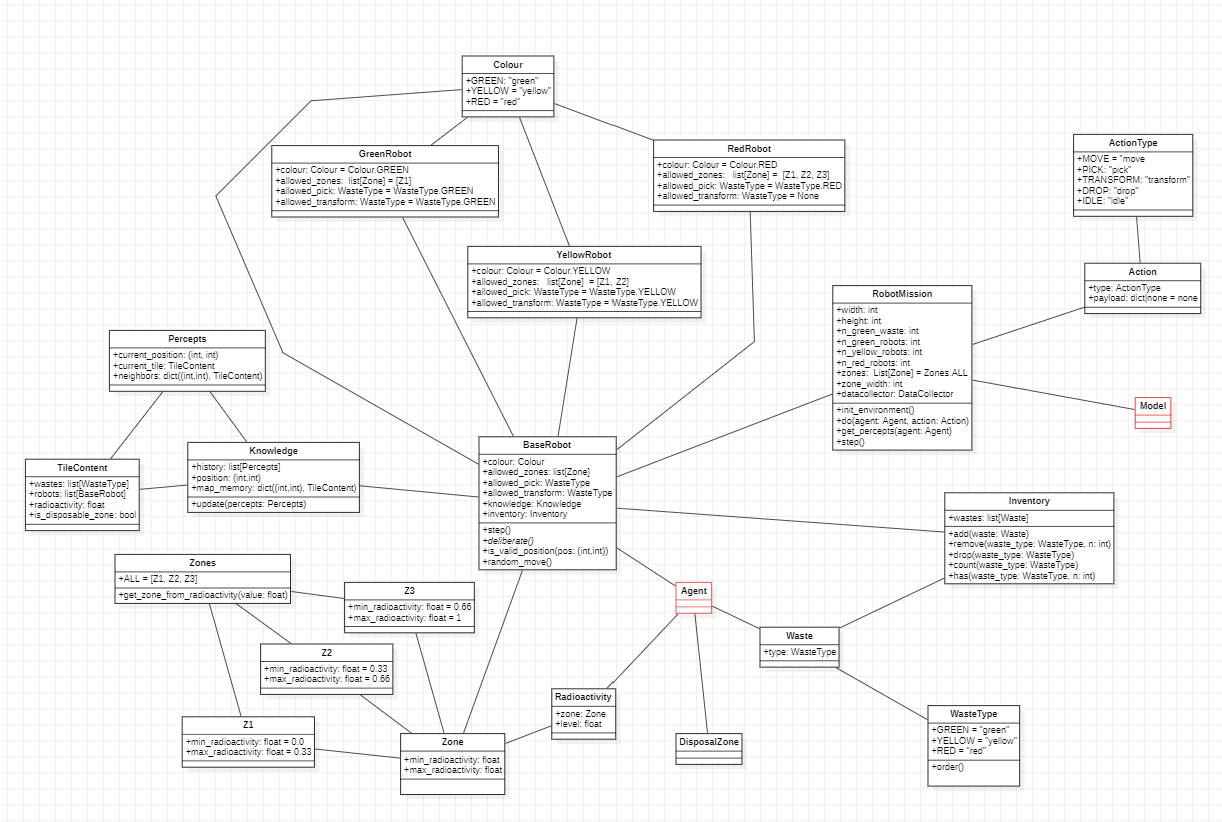
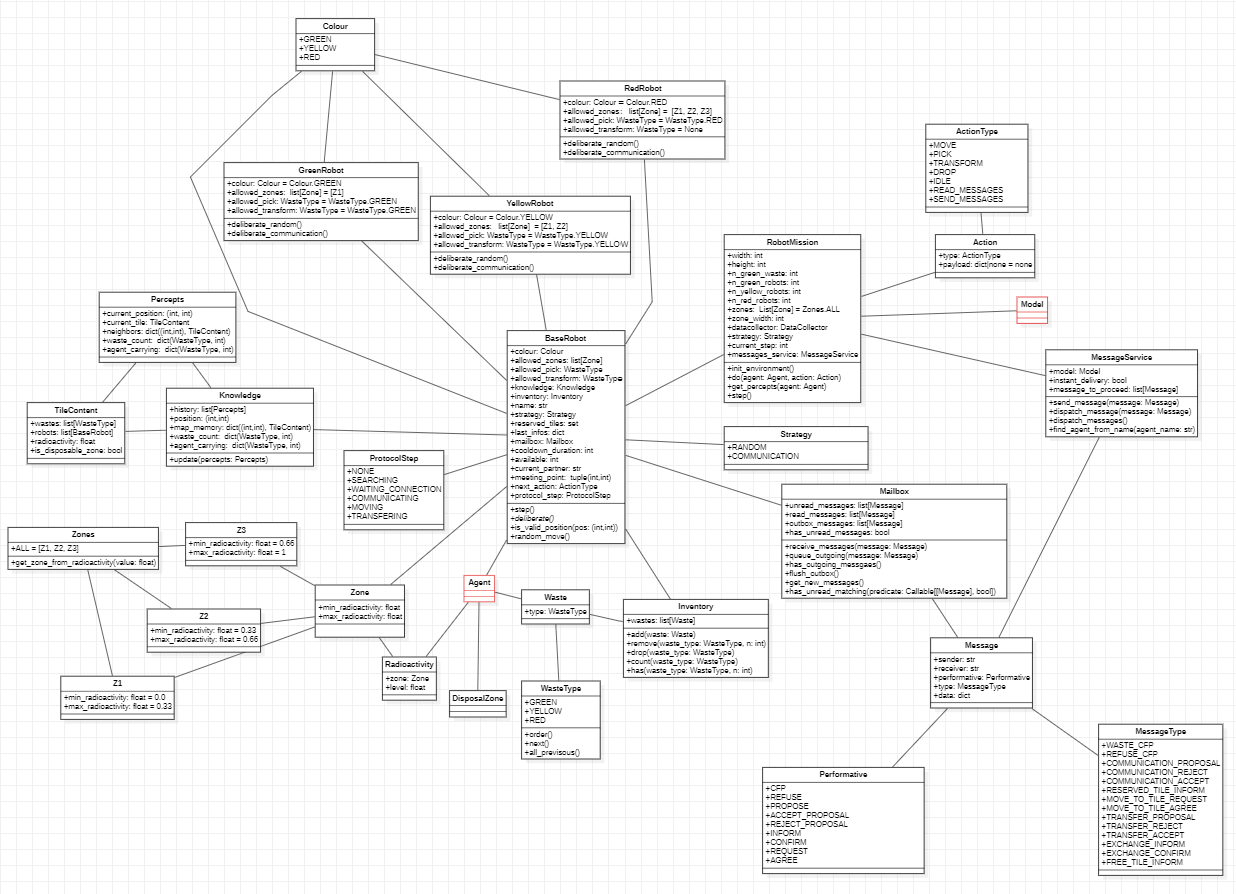
Red robot communication policy fix + README update
I fixed a little bug in the red robot communication policy that was
making them pick up any waste while moving to there starting position. Moreover
I updated the README.

diff --git a/src/agents.py b/src/agents.py
@@ -1109,7 +1109,11 @@ class RedRobot(BaseRobot):
 
         # If on a tile with a waste
         for w in tile.wastes:
-            if w.type in self.allowed_pick and current_pos != self.target_position:
+            if (
+                w.type in self.allowed_pick
+                and current_pos != self.target_position
+                and tile.zone != Z1
+            ):
                 return Action(ActionType.PICK, {"type": w.type})
 
         if current_pos == self.start_position:

diff --git a/src/server.py b/src/server.py
@@ -531,5 +531,5 @@ page = SolaraViz(
         distance_plot,
     ],
     model_params=model_params,
-    name="Robot Mission - Simple Init",
+    name="SMA - Robot Mission",
 )

diff --git a/README.md b/README.md
@@ -5,9 +5,12 @@
 ## Table of Contents
 1. [Overview](#overview)
 2. [Development](#development)
-3. [Project Structure](#project-structure)
-4. [Simulation Preview](#simulation-preview)
-5. [Contributors](#contributors)
+3. [Project Scope](#project-scope)
+4. [Architecture](#architecture)
+5. [Protocols](#protocols)
+6. [Strategies](#strategies)
+7. [Simulation Preview](#simulation-preview)
+8. [Contributors](#contributors)
 
 ## Overview
 
@@ -22,8 +25,8 @@ This project follows the best practices we currently rely on for building mainta
 
 ### Requirements
 - **Python 3.12**
-- **`uv`** (recommended) for dependency management and to automatically create the package link for a smoother development workflow
-- **`make`** (recommended) to use the provided Makefile commands
+- [**`uv`**](https://docs.astral.sh/uv/) (recommended) for dependency management and editable installs (alternatively, you can manage dependencies via the `requirements.txt` generated with `uv`).
+- **`make`** (recommended) to use the provided Makefile commands (alternatively, you can execute the underlying commands manually).
 
 ### Environment setup
 Install dependencies and set up `pre-commit` hooks:
@@ -37,33 +40,122 @@ Run linting/formatting checks via `pre-commit`:
 make pre-commit
 ```
 
-
-## Project Structure
-You'll find all the utility functions and classes (Python `.py` files) you'll need for our experiments and tests in the [`src`](./src/) folder. 
-
 ## Project Scope
-The project implements a multi-agent simulation of robots operating in a hostile environment structured into three radioactivity zones. The environment is initialized on a grid, the three robot types are instantiated with their movement constraints, the waste transformation chain from green to yellow then from yellow to red is operational, and the disposal area is handled at the right edge of the grid. No optimization strategy has been implemented at this point. The current behaviors therefore correspond to a baseline configuration in which movements are mainly random, with local rule priorities for picking up, transforming, transporting, and dropping waste.
+This project focuses on a multi-agent simulation in which robots operate within a hostile environment divided into three distinct radioactivity zones. The environment is modeled as a grid where three different types of robots are deployed, each following its own movement constraints.
 
-## Object-Oriented Architecture
-The code is organized around a clear separation between the model, the agents, the objects placed in the environment, and the support classes used for decision making. The `RobotMission` class in `model.py` is the central controller of the simulation. It creates the grid, assigns the radioactivity zones, places wastes and robots, executes actions, generates percepts, and collects the data used for visualization. The robot classes are defined in `agents.py`. `BaseRobot` provides the common structure shared by all robots, including an inventory, a local knowledge base, the generic simulation step, position validation, and random movement. `GreenRobot`, `YellowRobot`, and `RedRobot` then specialize this base class by fixing the accessible zones, the handled waste type, and the decision rules associated with their role in the processing chain.
+Within this setting, a waste transformation process takes place. As the simulation progresses, waste is gradually transformed from green to yellow, and then from yellow to red. At the same time, a dedicated disposal area is positioned on the right edge of the grid, serving as the final destination for all processed waste.
 
-Several object-oriented support classes were added to make the implementation more modular than a minimal reading of the subject would require. The `Waste`, `Radioactivity`, and `DisposalZone` classes in `objects.py` explicitly model the entities present on the grid. The `Action` class in `core/actions.py` formalizes what a robot asks the environment to do. The `Inventory` class in `core/inventory.py` isolates waste storage and manipulation inside each robot. The `Knowledge` class in `core/knowledge.py` stores the robot's current position, its percept history, and its local map memory. The `Percepts` and `TileContent` data structures in `core/percepts.py` standardize what a robot can observe at each step. The zone system is also encapsulated in dedicated classes in `core/zones.py`, with `Z1`, `Z2`, and `Z3` representing the three radioactivity intervals and `Zones` grouping the global configuration. Finally, `core/enums.py` centralizes the enumerations for colors, action types, and waste types, which keeps the rest of the code simpler and more consistent.
+Given this setup, the main objective of the simulation is to maximize waste compaction while ensuring that all waste is efficiently transported to the disposal area.
+
+However, the robots do not operate with complete information. Each robot only has partial knowledge of the system, it is aware of the names of other robots of the same type, and its perception of the environment is limited to the four adjacent tiles (excluding diagonals) and what he has seen.
+
+To tackle these constraints, two different strategies are explored. On the one hand, a basic approach without communication is implemented, where robots act independently using simple behaviors. On the other hand, a more advanced strategy introduces a communication protocol, enabling robots to coordinate their actions and achieve more efficient and optimized waste compaction and transportation.
+
+
+## Architecture
+### Logic
+The code is organized around a clear separation between the model, the agents, the objects placed in the environment, and the support classes used for decision making. The `RobotMission` class in [`model.py`](./src/model.py) is the central controller of the simulation. It creates the grid, assigns the radioactivity zones, places wastes and robots, executes actions, generates percepts, and collects the data used for visualization. The robot classes are defined in [`agents.py`](./src/agents.py). `BaseRobot` provides the common structure shared by all robots, including an inventory, a local knowledge base, the generic simulation step, position validation, and random movement. `GreenRobot`, `YellowRobot`, and `RedRobot` then specialize this base class by fixing the accessible zones, the handled waste type, and the decision rules associated with their role in the processing chain.
+
+Several object-oriented support classes were added to make the implementation more modular than a minimal reading of the subject would require. The `Waste`, `Radioactivity`, and `DisposalZone` classes in [`objects.py`](./src/objects.py) explicitly model the entities present on the grid. The `Action` class in [`core/actions.py`](./src/core/actions.py) formalizes what a robot asks the environment to do. The `Inventory` class in [`core/inventory.py`](./src/core/inventory.py) isolates waste storage and manipulation inside each robot. The `Knowledge` class in [`core/knowledge.py`](./src/core/knowledge.py) stores the robot's current position, its percept history, and its local map memory. The `Percepts` and `TileContent` data structures in [`core/percepts.py`](./src/core/percepts.py) standardize what a robot can observe at each step. The zone system is also encapsulated in dedicated classes in [`core/zones.py`](./src/core/zones.py), with `Z1`, `Z2`, and `Z3` representing the three radioactivity intervals and `Zones` grouping the global configuration. We have also the [`core/enums.py`](./src/core/enums.py) that centralizes the enumerations for colors, action types, and waste types, which keeps the rest of the code simpler and more consistent. Finally we have the communication part that use a `MessageService` in [`communication/service.py`](./src/communication/service.py) to deliver the message, the `Message` class in [`communication/enums.py`](./src/communication/enums.py) to formalize the content of the messages sent between robots and finally the `Mailbox` class in [`communication/mailbox.py`](./src/communication/mailbox.py) to store the messages received by each robot and the future message to send.
 
 Here is a quick class diagram to illustrate our architecture (each link mean "has an instance of" or "uses an instance of"):
 
 ![Class Diagram](./assets/class_diagram.png)
 
 
-## Visualization and Execution
-The visualization layer is separated from the simulation logic. The `server.py` file defines the Solara interface, the graphical rendering of the grid, and the plots that track the number of green, yellow, and red wastes over time. The `run.py` file only exposes this page as the application entry point. This organization keeps the interface code distinct from the environment rules and the decision logic.
+### Visualization
+The visualization layer is separated from the simulation logic. The [`server.py`](./src/server.py) file defines the Solara interface, the graphical rendering of the grid, and the plots that track the number of green, yellow, and red wastes over time. The [`run.py`](./src/run.py) file only exposes this page as the application entry point. This organization keeps the interface code distinct from the environment rules and the decision logic.
 
 Here is a quick overview of simulation displays:
 
-![Display](./assets/display_example.png)
+![Display_1](./assets/display_example_1.png)
+![Display_2](./assets/display_example_2.png)
 
 
-## Results and Current Choices
-The current results validate the core mechanics of the simulation. The execution shows that green waste can be collected in zone 1, transformed into yellow waste, carried into zone 2, transformed again into red waste, then transported to the disposal zone by red robots. The plots serve to verify the proper evolution of the different waste categories during execution. Since no optimization strategy has been introduced yet, there is no comparison between behavioral strategies or tested configurations at this stage. The conceptual choice retained here is therefore a simple and readable baseline, designed to validate the environment, the interactions, and the complete treatment chain.
+## Protocols
+In our project, communication between agents is only triggered in specific situations rather than being used continuously. More precisely, an agent initiates communication when it is carrying a piece of waste and no other waste remains available on the ground. In this context, collaboration becomes necessary to continue optimizing the process.
+
+To achieve this, the agent starts a first communication protocol by reaching out to other agents of the same type and asks whether they are also carrying waste and if they are available to engage in communication. If another agent responds positively, a communication link is established between the two. 
+
+The diagram below illustrates this initial communication phase:
+
+![Communication_protocol](./assets/communication_protocol.png)
+
+Once communication is established, the two agents must coordinate their actions to safely exchange waste. The first step is to reserve a tile in the environment to ensures that no other agent can interfere during the process, for example by picking up the waste involved in the exchange.
+
+After reserving the tile, both agents move toward this shared location and when they confirm that they are on the same tile, they proceed with the exchange of waste. Finally, once the exchange is completed, they communicate one last time to release the tile, making it available again for the rest of the system. 
+
+The following diagram presents this second phase of the protocol:
+
+![Transfer_protocol](./assets/transfer_protocol.png)
+
+
+## Strategies
+### Random
+***
+For the random strategy without communication, each robot simply follows a set of basic rules based on its current state and the local information it has. The robots move randomly until they find two pieces of waste they can transform and once the transformation is done, they drop the resulting waste as far to the right as possible within the part of the grid they can access. Then, they continue moving randomly until they find more waste, and repeat this process.
+
+Here are the main behaviors for each type of robot, in order of priority:
+
+**Green Robots:**
+- If the robots has a yellow waste in inventory, it tries to drop it as far right as possible within its accessible area
+- If it can transform 2 green wastes into a yellow waste, it does it
+- If there is a green waste on the ground, it picks it up
+- Otherwise, it moves randomly, but if it sees a green waste nearby, it moves toward it
+
+**Yellow Robots:**
+- If the robot has a red waste in its inventory, it tries to drop it as far right as possible within its accessible area
+- If it can transform 2 yellow wastes into a red waste, it does it
+- If there is a yellow waste on the ground, it picks it up
+- Otherwise, it moves randomly, but if it sees a yellow waste nearby, it moves toward it
+
+**Red Robots:**
+- If the robot has a red waste in its inventory, it tries to drop it in the disposal area (right side of the grid)
+- If it is not in the disposal zone and there is a red waste on the ground, it picks it up
+- Otherwise, it moves randomly, but if it sees a red waste nearby, it moves toward it (except if it is close to the disposal zone)
+
+
+### Communication
+***
+For the communication strategy, the behavior is quite different. Here, robots can exchange waste between each other, which allows a more optimal compaction strategy and a better organization of waste positions.
+
+- Green robots still move randomly, but they now drop all waste at a specific target position. Moreover, when they are blocked (for example, when they cannot transform waste alone) they initiate a communication to exchange waste with another robot in order to proceed with the transformation and if it is the last waste, it is directly placed at the target position.
+- Yellow robots start from the target position of the green robots which allows them to immediately collect the transformed waste produced by the green robots. Similarly, if they are blocked, they can communicate to exchange waste and continue the process.
+- Finally, red robots start from the target position of the yellow robots and they collect all the waste dropped by the yellow robots and transport it to the disposal zone.
+
+Here are the main behaviors for each type of robot, in order of priority:
+
+**Green Robots:**
+- If the robot has a communication action to perform (read message, send message, etc.), it does it first
+- If the robot has a green waste and it is the last green waste, it drops it on the target zone
+- If the robot has a green waste and there is no other green waste on the ground, it tries to start a communication with another robot to merge them
+- If it has a yellow waste in its inventory, it drops it on the target zone
+- If it can transform 2 green wastes into a yellow waste, it does it
+- If there is a green waste on the ground, it picks it up (except if it is the last one already in the target position)
+- Otherwise, it moves randomly, but if it sees a green waste nearby, it moves toward it
+
+**Yellow Robots:**
+- If the robot has a communication action to perform, it does it first
+- If the robot has a yellow waste and it is the last yellow waste, it drops it in the target zone
+- If the robot has a yellow waste and there is no other yellow waste on the ground, it tries to start a communication to merge them
+- If it has a yellow or green waste in its inventory, it moves it toward the target zone
+- If it can transform 2 yellow wastes into a red waste, it does it
+- If there is a yellow waste on the ground, it picks it up (except if it is the last one already in the target position)
+- If there is only one green waste left on the ground, it picks it up
+- If it is at its start position, it waits
+- Otherwise, it moves toward its start position
+
+**Red Robots:**
+- If the robot has a communication action to perform, it does it first
+- If the robot has a waste, it drops it in the disposal zone
+- If there is a waste on the ground outside the first zone, it picks it up
+- If it is at its start position, it waits
+- Otherwise, it moves toward its start position
+
+
+### Results
+***
+
 
 
 ## Simulation Preview
@@ -71,7 +163,6 @@ launch the simulation with:
 ```bash
 make solara-server
 ```
-
 
 ## Contributors
 
